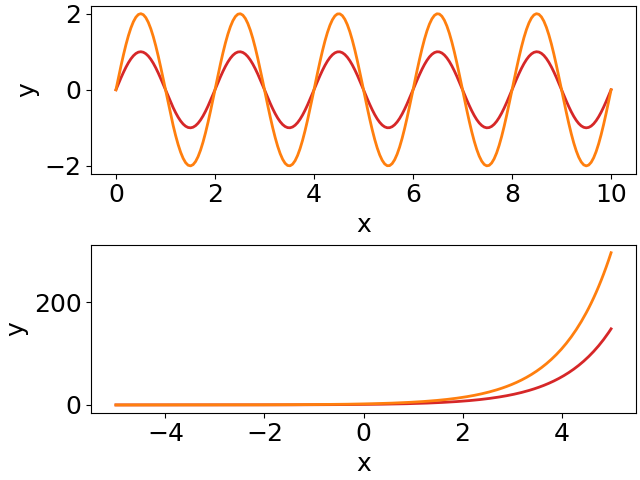
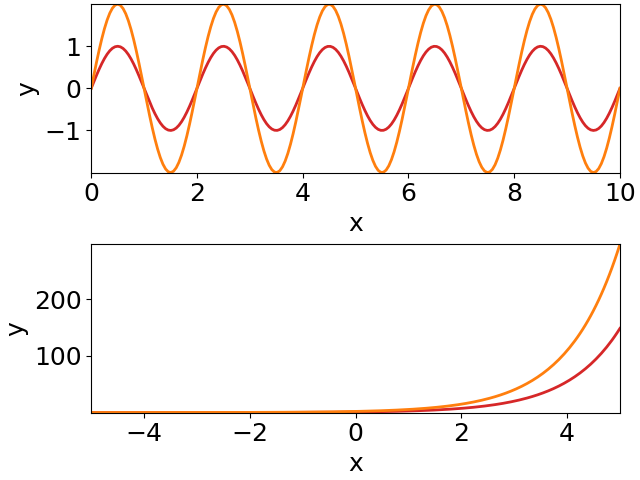
[docs] added code-rcparams.png

diff --git a/docs/figures/code.py b/docs/figures/code.py
@@ -34,11 +34,40 @@ ax2.set_ylabel('y', fontsize=18)
 fig.savefig('code-params.png')
 
 
+def sine_plot(ax, color1, color2, lw):
+    x = np.linspace(0, 10, 200)
+    y = np.sin(2*np.pi*0.5*x)
+    ax.plot(x, y, color=color1, lw=lw)
+    ax.plot(x, 2*y, color=color2, lw=lw)
+    ax.set_xlabel('x')
+    ax.set_ylabel('y')
+
+def exp_plot(ax, color1, color2, lw):
+    x = np.linspace(-5, 5, 200)
+    y = np.exp(x)
+    ax.plot(x, y, color=color1, lw=lw)
+    ax.plot(x, 2*y, color=color2, lw=lw)
+    ax.set_xlabel('x')
+    ax.set_ylabel('y')
+
+plt.rcParams['font.size'] = 18
+color1 = 'tab:red'
+color2 = 'tab:orange'
+lw = 2
+fig, (ax1, ax2) = plt.subplots(2, 1)
+sine_plot(ax1, color1, color2, lw)
+exp_plot(ax2, color1, color2, lw)
+fig.savefig('code-rcparams.png')
+
+
 def plot_style():
     class s: pass
     s.lsSmall = dict(color='tab:red', lw=2)
     s.lsLarge = dict(color='tab:orange', lw=2)
+    plt.rcParams['figure.constrained_layout.use'] = True
     plt.rcParams['font.size'] = 18
+    plt.rcParams['axes.xmargin'] = 0
+    plt.rcParams['axes.ymargin'] = 0
     return s
 
 def sine_plot(ax, s):

diff --git a/docs/code.md b/docs/code.md
@@ -70,7 +70,7 @@ fig.savefig('plot.pdf')
 
 The figure now has larger labels and modified line styles:
 
-![plain](figures/code-params.png)
+![params](figures/code-params.png)
 
 
 ## Modularize your code
@@ -173,6 +173,17 @@ sine_plot(ax1, color1, color2, lw)
 exp_plot(ax2, color1, color2, lw)
 fig.savefig('plot.pdf')
 ```
+
+The
+[rcParams](https://matplotlib.org/stable/tutorials/introductory/customizing.html)
+`font.size` sets the size of all text:
+
+![rcparams](figures/code-rcparams.png)
+
+There are additional
+[rcParams](https://matplotlib.org/stable/tutorials/introductory/customizing.html)
+that allow for a finer control of font sizes.
+ 
 
 This already removes quite some clutter from your plot functions and
 it also improves the main code, because the parameter lists get
@@ -320,7 +331,10 @@ def plot_style():
     s.lsSmall = dict(color='tab:red', lw=2)
     s.lsLarge = dict(color='tab:orange', lw=2)
     # global settings:
+    plt.rcParams['figure.constrained_layout.use'] = True
     plt.rcParams['font.size'] = 18
+    plt.rcParams['axes.xmargin'] = 0
+    plt.rcParams['axes.ymargin'] = 0
     return s
 ```
 
@@ -363,9 +377,11 @@ without setting or influencing the design.
 
 The design of all the plots can be modified in a single place.
 
-Of course, the figure still looks the same:
+Because we added a few more
+[rcParams](https://matplotlib.org/stable/tutorials/introductory/customizing.html),
+the figure looks a little bit different:
 
-![plain](figures/code-plotstyle.png)
+![plotstyle](figures/code-plotstyle.png)
 
 
 ## How to structure your code
